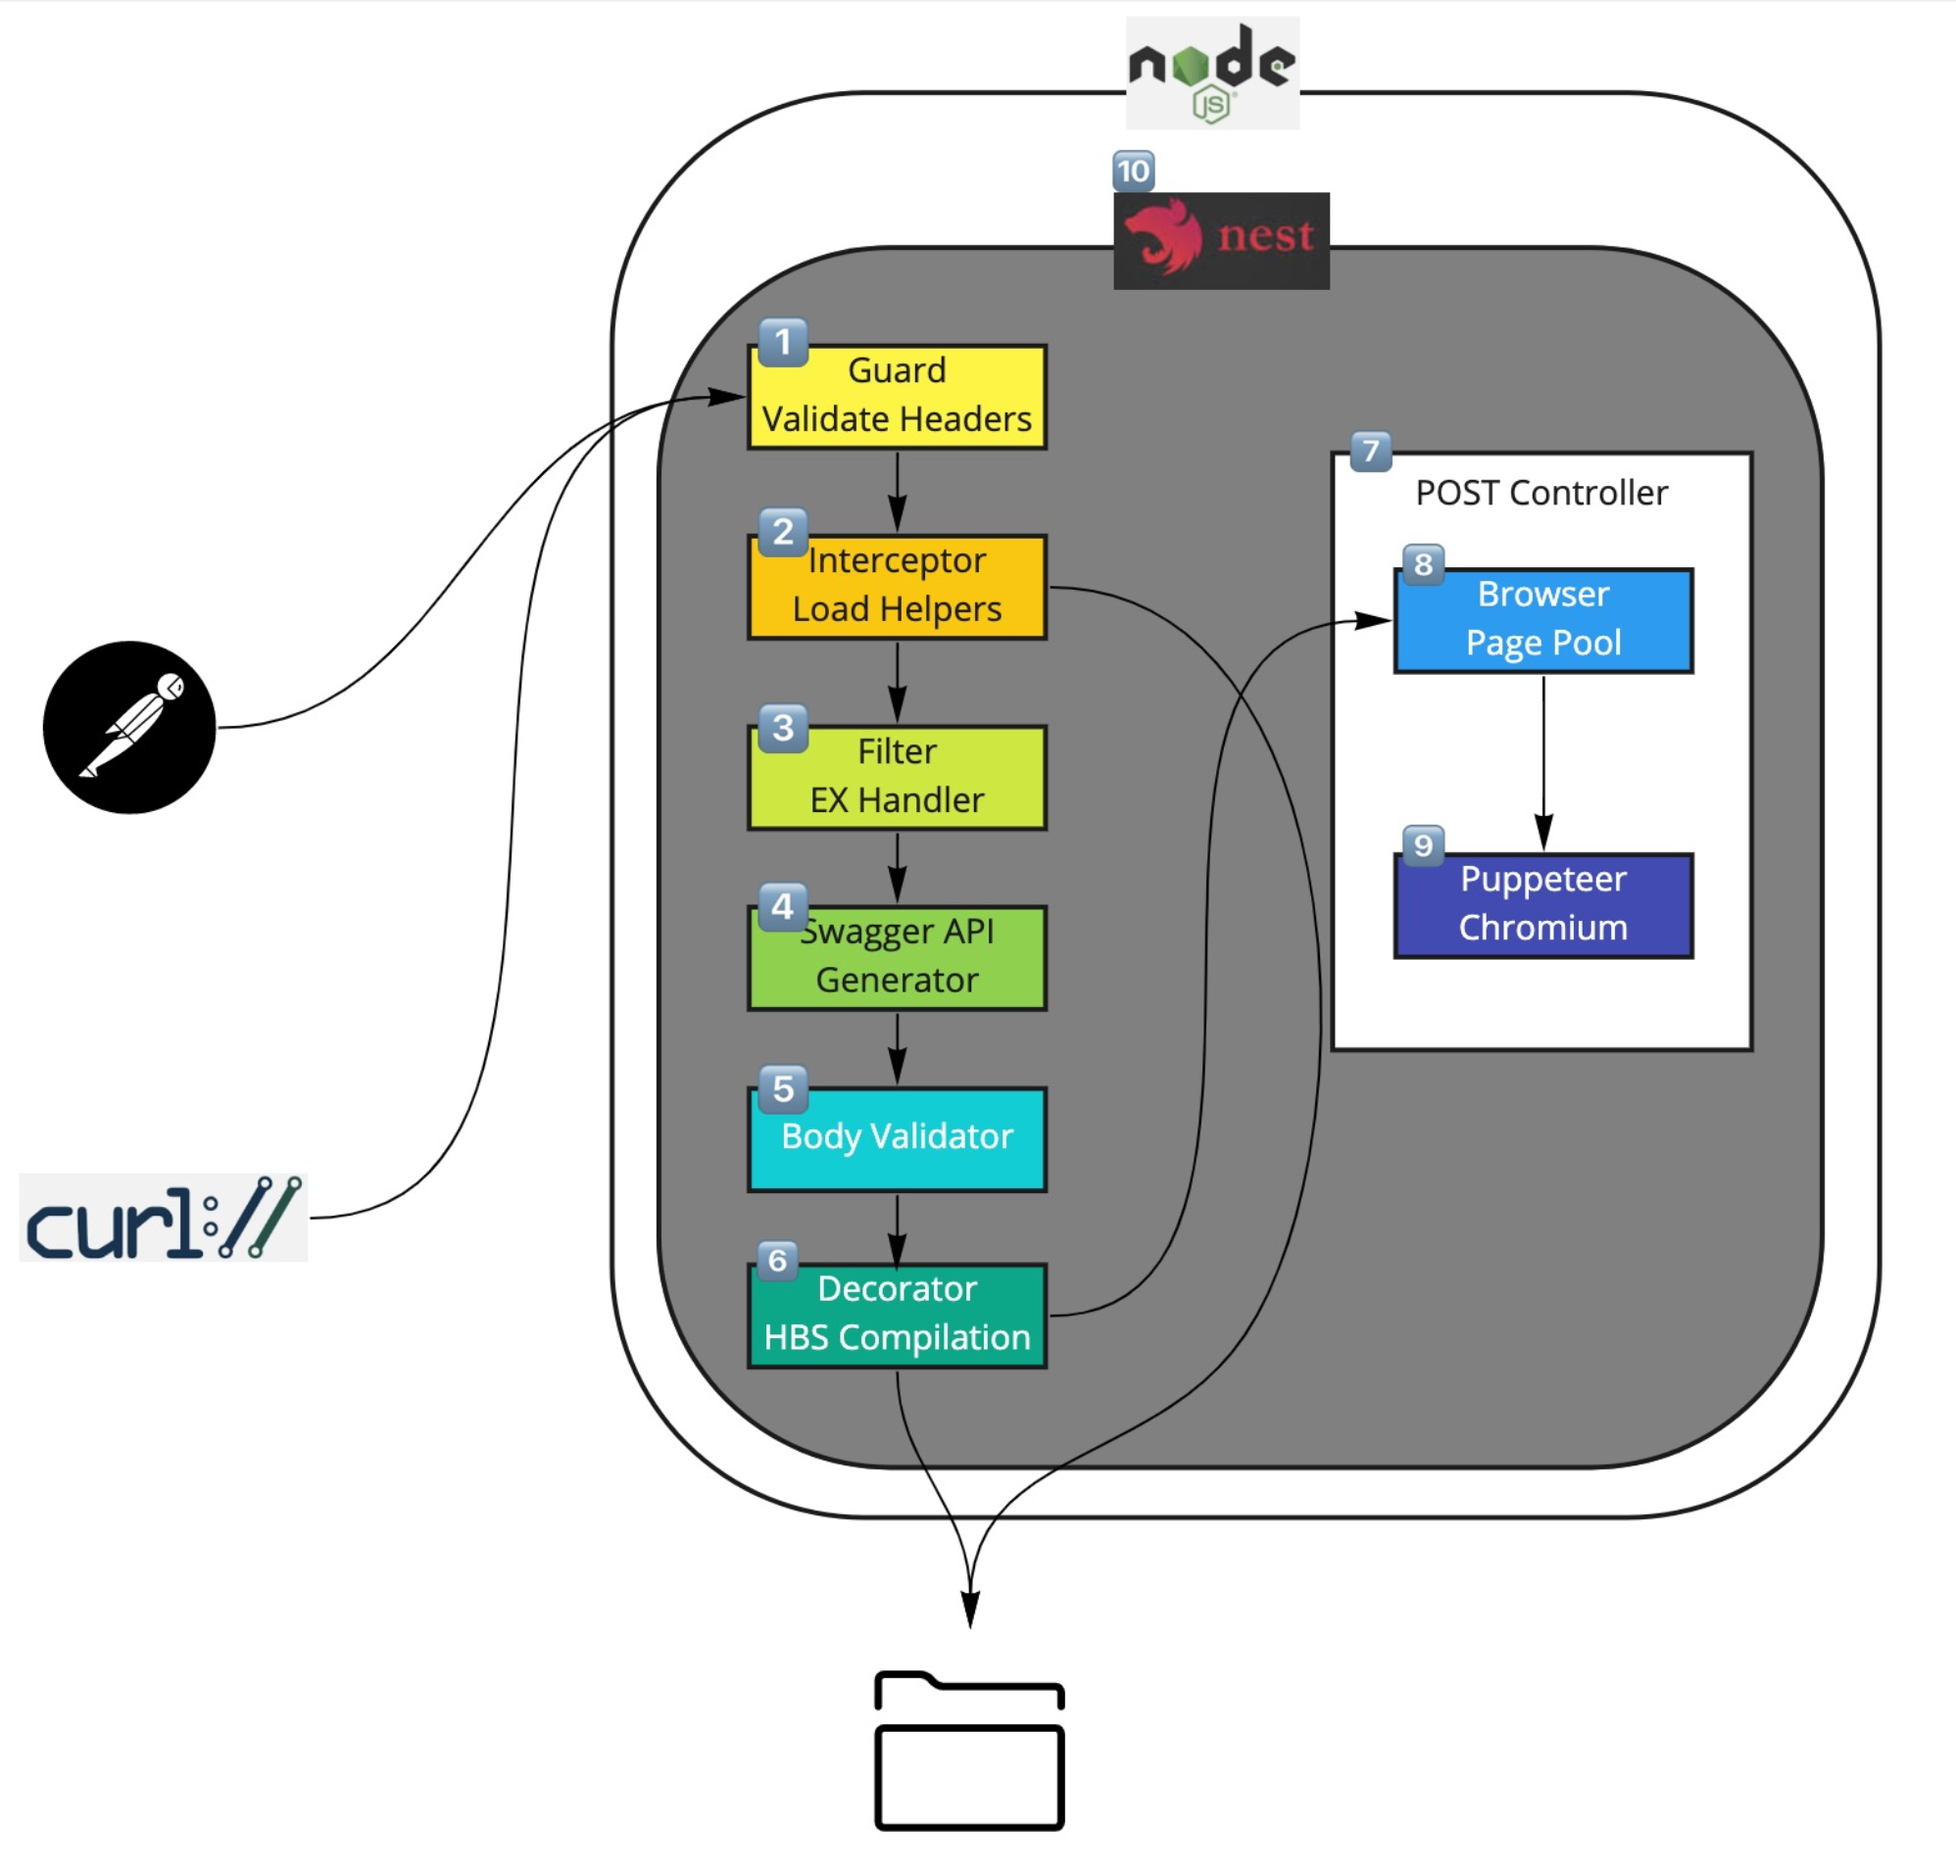
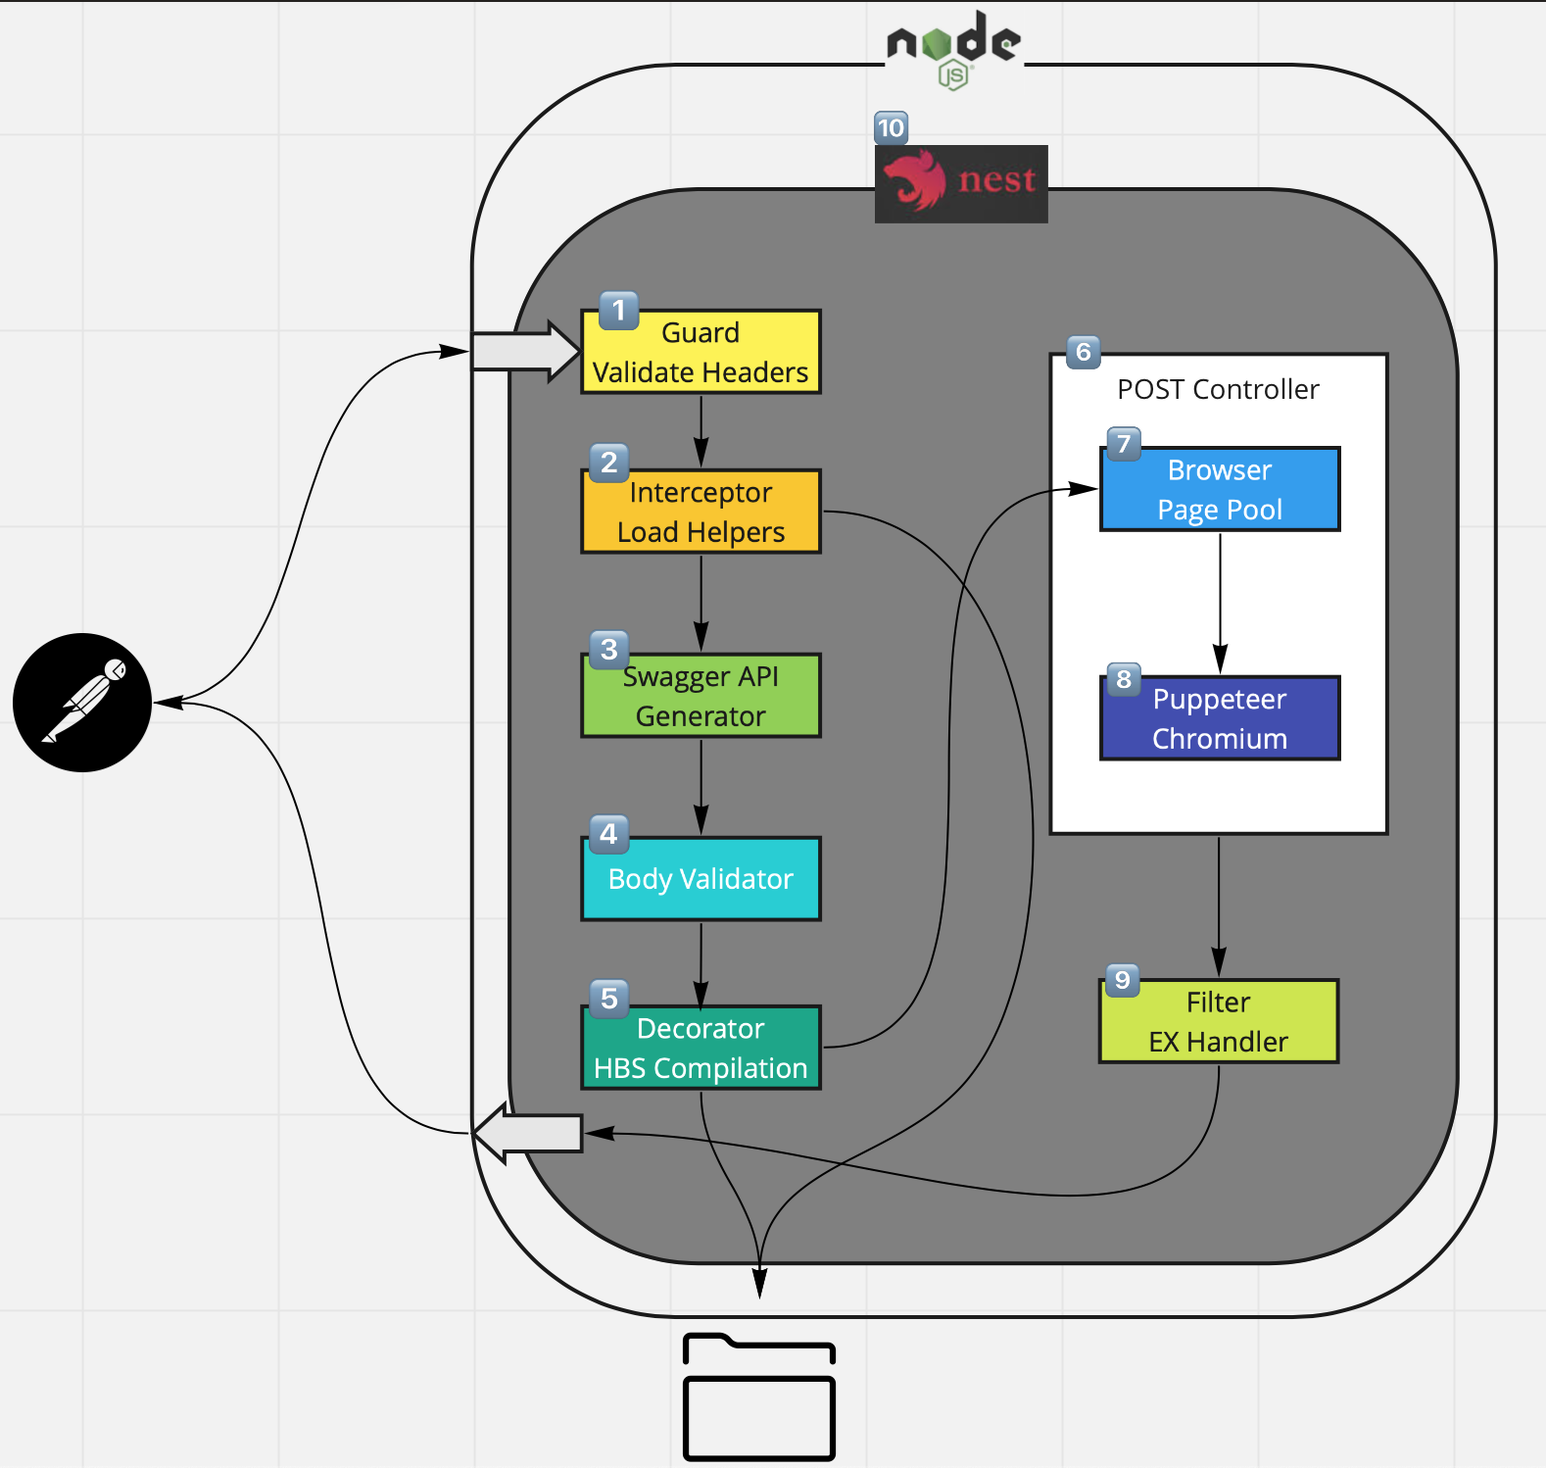
rework diagram

diff --git a/_posts/2022-07-04-step-3-5.md b/_posts/2022-07-04-step-3-5.md
@@ -5,7 +5,7 @@ categories: [pdf-generator]
 tags: [swagger, body-validator, handlebar-compilation]
 ---
 
-## Step 4 Swagger API
+## Step 3 Swagger API
 Nest.js has a fantastic Swagger integration. The code the instrument Swagger sub-system is as follows:
 ```typescript
  const swaggerConfig = new DocumentBuilder()
@@ -63,7 +63,7 @@ Last you need to put the Swagger decorators at the PDF Controller (introduce in 
 A word of warning. Since the input in POST Body is normally composed of actually data extracted from legacy system , the structure can change quite frequently and it can be complex. Writing a accurate Swagger API that depicts the input format can be very tedious and perhaps impractical. But if the input data is relatives stable, the Swagger documentation can be very helpful to callers of the PDF Generator.
 
 ---
-## Step 5 Body Validator
+## Step 4 Body Validator
 If one wants to take one step further, such as validating the structure of the input data before it goes further into the rendering pipeline, a JSON tree validator can be instrumented using <em>class-validator</em> package https://www.npmjs.com/package/class-validator. Refer to the typescript DTO class above. The use of validation decorators (below) will serve the purpose of scaffolding the validation mechanism.
 ```typescript
 import { IsNumber, IsNotEmpty, IsString, ValidateNested, IsCurrency, IsInt, IsObject, IsArray } from 'class-validator';
@@ -71,7 +71,7 @@ import { IsNumber, IsNotEmpty, IsString, ValidateNested, IsCurrency, IsInt, IsOb
 Same word of warning also that maintaining a tight validation on input JSON composed from legacy systems that can changed can be very time consuming.
 
 ---
-## Step 6 Handlebars Compilation
+## Step 5 Handlebars Compilation
 The core PDF system use advanced **Handlebars** template mechanism to fuse input data into template code. Please read up the documentation https://handlebarsjs.com  
 
 There are two approaches to instrument **Handlebars** sub-system. I have done integrating the entire compilation process the Node's engine mechanism, the other is a straight reading <em>*.hbs</em> files from designated directories and compile them. I've taken the later. I created a Handlebars services where I can pre-compile all *.hbs files at startup :

diff --git a/_posts/2022-07-05-step-6-9.md b/_posts/2022-07-05-step-6-9.md
@@ -5,7 +5,7 @@ categories: [pdf-generator]
 tags: [pdf-controller, browser-page-pool, puppeteer]
 ---
 
-## Step 7 Controller
+## Step 6 Controller
 The heart of he PDF Generator is driven by the PDF Controller. In Nest.js , you use annotation to designate a function as a controller where HTTP request will be routed to. You can see all the decorators we mentioned before are used either on the class or the method or the parameters of the Controller.
 ```ts
 @UseGuards(HeaderGuard)
@@ -59,7 +59,7 @@ export class PdfController {
 }
 ```
 ---
-## Step 8-9 Browser Page Pool with Puppeteer
+## Step 7-8 Browser Page Pool with Puppeteer
 I have use a library <em>puppeteer-page-pool</em> to hold a finite number of pages within a embedded headless Chromium browser . I have also tried using browser pool as well. But for the application of PDF generation , a page pool will be sufficient and more efficient. Note the Page Pool also wraps puppeteer library within it.
 ```ts
 class BrowserPagePool {
@@ -105,3 +105,27 @@ class BrowserPagePool {
   }
 }
 ``` 
+
+## Step 9 Exception Filter
+Nest.js allows developers the flexibility to handle exception encountered during the HTTP response pipeline using filter. This is a place we can standadize the exception handling. It can be decorated at the Controller level such as **UseFilters(MyFilter)** . A fragment of code how I customize the exception handling are as follows:
+```typescript
+  @Catch()
+  export class AllExFilter implements ExceptionFilter {
+    catch(exception: any, host: ArgumentsHost) {
+      const ctx = host.switchToHttp();
+      const response = ctx.getResponse();
+      const request = ctx.getRequest();
+  
+      const status =
+        exception instanceof HttpException
+          ? exception.getStatus()
+          : HttpStatus.INTERNAL_SERVER_ERROR;
+  
+      response.status(status).json({
+        statusCode: status,
+        // timestamp: new Date().toISOString(),
+        message: exception.message,
+      });
+    }
+  }
+```

diff --git a/_posts/2022-07-03-step-1-2.md b/_posts/2022-07-03-step-1-2.md
@@ -84,26 +84,3 @@ export class ExtInterceptor implements NestInterceptor {
 }
 ```
 ---
-## Step 3 Exception Filter
-Nest.js allows developers the flexibility to handle exception encountered during the HTTP request pipeline. It can be applied at the Controller level such as **UseFilters(MyFilter)** . A fragment of code how I customize the exception handling are as follows:
-```typescript
-  @Catch()
-  export class AllExFilter implements ExceptionFilter {
-    catch(exception: any, host: ArgumentsHost) {
-      const ctx = host.switchToHttp();
-      const response = ctx.getResponse();
-      const request = ctx.getRequest();
-  
-      const status =
-        exception instanceof HttpException
-          ? exception.getStatus()
-          : HttpStatus.INTERNAL_SERVER_ERROR;
-  
-      response.status(status).json({
-        statusCode: status,
-        // timestamp: new Date().toISOString(),
-        message: exception.message,
-      });
-    }
-  }
-```

diff --git a/_posts/2022-07-02-architecture.md b/_posts/2022-07-02-architecture.md
@@ -1,7 +1,7 @@
 ---
 layout: post
 title: Architecture of PDF generator
-categories: [pdf-generator]
+categories: [pdf-service]
 tags: [architecture,http-clients,document-path,input-data,micro-service]
 ---
 

diff --git a/_posts/2022-07-01-intro.md b/_posts/2022-07-01-intro.md
@@ -1,7 +1,7 @@
 ---
 layout: post
 title: Introduction PDF Service
-categories: [pdf-generator]
+categories: [pdf-service]
 tags: [nest.js,node,handlebars,puppeteer]
 ---
 
